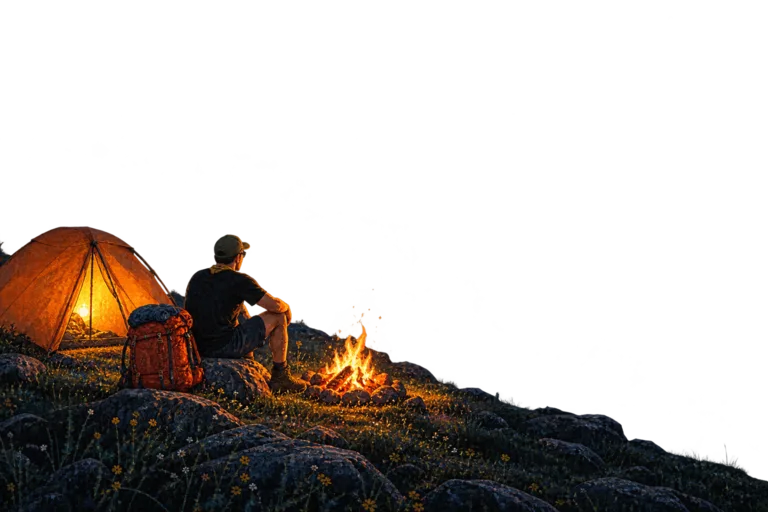
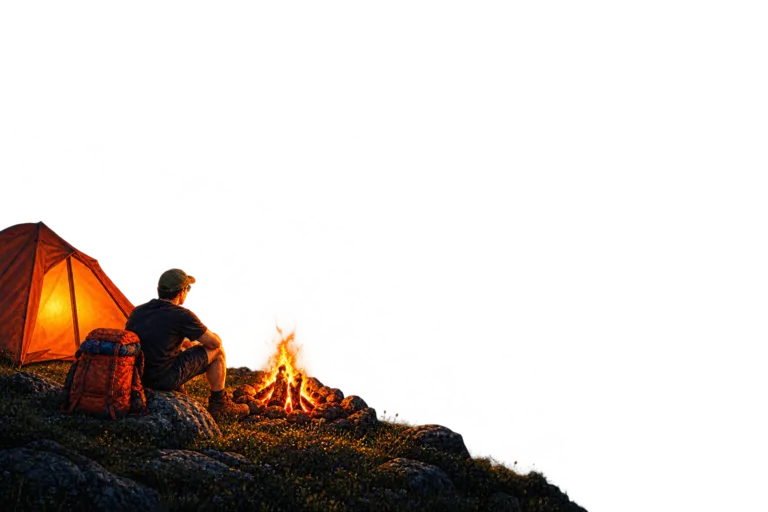
fix: image and font

diff --git a/src/components/sections/Summit.tsx b/src/components/sections/Summit.tsx
@@ -1,7 +1,7 @@
 import { useRef } from 'react'
 import { RidgeEdge } from '@/components/decor/RidgeEdge'
 import { PaintedScene } from '@/components/scene/PaintedScene'
-import { SUMMIT_SCENE } from '@/components/scene/scenes'
+import { SUMMIT_HIKER_SCENE, SUMMIT_SKY_SCENE } from '@/components/scene/scenes'
 import { contactContent } from '@/content/contact'
 import { SECTION_IDS } from '@/content/sections'
 import { useLocalized } from '@/hooks/useLocale'
@@ -49,8 +49,9 @@ export function Summit() {
         </div>
       </div>
       <div className="pointer-events-none relative -mt-[clamp(24px,8vw,80px)] aspect-[4/5] w-full sm:aspect-[4/3] lg:absolute lg:inset-0 lg:mt-0 lg:aspect-auto">
-        <PaintedScene layers={SUMMIT_SCENE} imageClassName="object-[85%_bottom]" />
+        <PaintedScene layers={SUMMIT_SKY_SCENE} imageClassName="object-[85%_bottom]" />
         <div className="absolute inset-x-0 top-0 h-2/5 bg-linear-to-b from-dawn-high to-transparent" />
+        <PaintedScene layers={SUMMIT_HIKER_SCENE} imageClassName="object-[85%_bottom]" />
       </div>
       <footer className="relative z-1 mt-auto flex flex-wrap justify-between gap-2 bg-dawn-low/60 px-6 py-6 font-mono text-xs text-cream-text/80 backdrop-blur-sm">
         <span>{footer.signature}</span>

diff --git a/src/components/scene/PaintedScene.tsx b/src/components/scene/PaintedScene.tsx
@@ -12,7 +12,7 @@ interface PaintedSceneProps {
 export function PaintedScene({ layers, imageClassName, className }: PaintedSceneProps) {
   return (
     <div className={cn('pointer-events-none absolute inset-0 overflow-hidden', className)} aria-hidden="true">
-      {layers.map(({ path, depth }) => (
+      {layers.map(({ path, depth, scale = 1 }) => (
         <div key={path} data-scene-depth={depth} className="absolute inset-x-0 -inset-y-8 will-change-transform">
           <img
             src={toSizedSrc(path, SCENE_FALLBACK_WIDTH)}
@@ -23,7 +23,8 @@ export function PaintedScene({ layers, imageClassName, className }: PaintedScene
             height={PAINTING_HEIGHT}
             loading="lazy"
             decoding="async"
-            className={cn('size-full object-cover', imageClassName)}
+            style={{ scale }}
+            className={cn('size-full origin-bottom-right object-cover', imageClassName)}
           />
         </div>
       ))}

diff --git a/index.html b/index.html
@@ -8,8 +8,11 @@
   <title>Timothé - Développeur web, créateur de produits</title>
   <link rel="preconnect" href="https://fonts.googleapis.com" />
   <link rel="preconnect" href="https://fonts.gstatic.com" crossorigin />
+  <link rel="preconnect" href="https://api.fontshare.com" />
+  <link rel="preconnect" href="https://cdn.fontshare.com" crossorigin />
+  <link rel="stylesheet" href="https://api.fontshare.com/v2/css?f[]=erode@600&display=swap" />
   <link
-    href="https://fonts.googleapis.com/css2?family=DM+Serif+Display&family=JetBrains+Mono:wght@400;500&family=Figtree:wght@400;500;700&family=Caveat:wght@500;700&display=swap"
+    href="https://fonts.googleapis.com/css2?family=JetBrains+Mono:wght@400;500&family=Figtree:wght@400;500;700&family=Caveat:wght@500;700&display=swap"
     rel="stylesheet" />
 </head>
 

diff --git a/src/components/scene/scenes.ts b/src/components/scene/scenes.ts
@@ -6,6 +6,7 @@ export const SCENE_FALLBACK_WIDTH = 1536
 export interface SceneLayer {
   path: string
   depth: number
+  scale?: number
 }
 
 export const COL_SCENE: SceneLayer[] = [{ path: `${SCENE_IMAGE_DIR}/col`, depth: 0 }]
@@ -17,7 +18,6 @@ export const BIVOUAC_SCENE: SceneLayer[] = [
   { path: `${SCENE_IMAGE_DIR}/bivouac-camp`, depth: 1 },
 ]
 
-export const SUMMIT_SCENE: SceneLayer[] = [
-  { path: `${SCENE_IMAGE_DIR}/sommet`, depth: 0.4 },
-  { path: `${SCENE_IMAGE_DIR}/sommet-perso`, depth: 1 },
-]
+export const SUMMIT_SKY_SCENE: SceneLayer[] = [{ path: `${SCENE_IMAGE_DIR}/sommet`, depth: 0.4 }]
+
+export const SUMMIT_HIKER_SCENE: SceneLayer[] = [{ path: `${SCENE_IMAGE_DIR}/sommet-perso`, depth: 1, scale: 0.9 }]

diff --git a/src/index.css b/src/index.css
@@ -42,17 +42,17 @@
   --color-gps: #2f7cf6;
   --color-dusk-mid: #a9668d;
   --color-col-grass: #696832;
-  --color-refuge-sky: #7e99bf;
-  --color-night-sky: #082448;
-  --color-night: #070e13;
+  --color-refuge-sky: #7a9ac5;
+  --color-night-sky: #04122e;
+  --color-night: #03080c;
   --color-campfire: #ffb35c;
-  --color-dawn-high: #042668;
-  --color-dawn-low: #1f3f7c;
+  --color-dawn-high: #0d2f71;
+  --color-dawn-low: #424174;
 
   --breakpoint-desktop: 68.8125rem;
 
   --font-sans: 'Figtree', sans-serif;
-  --font-serif: 'DM Serif Display', serif;
+  --font-serif: 'Erode', Georgia, serif;
   --font-mono: 'JetBrains Mono', monospace;
   --font-hand: 'Caveat', cursive;
 
